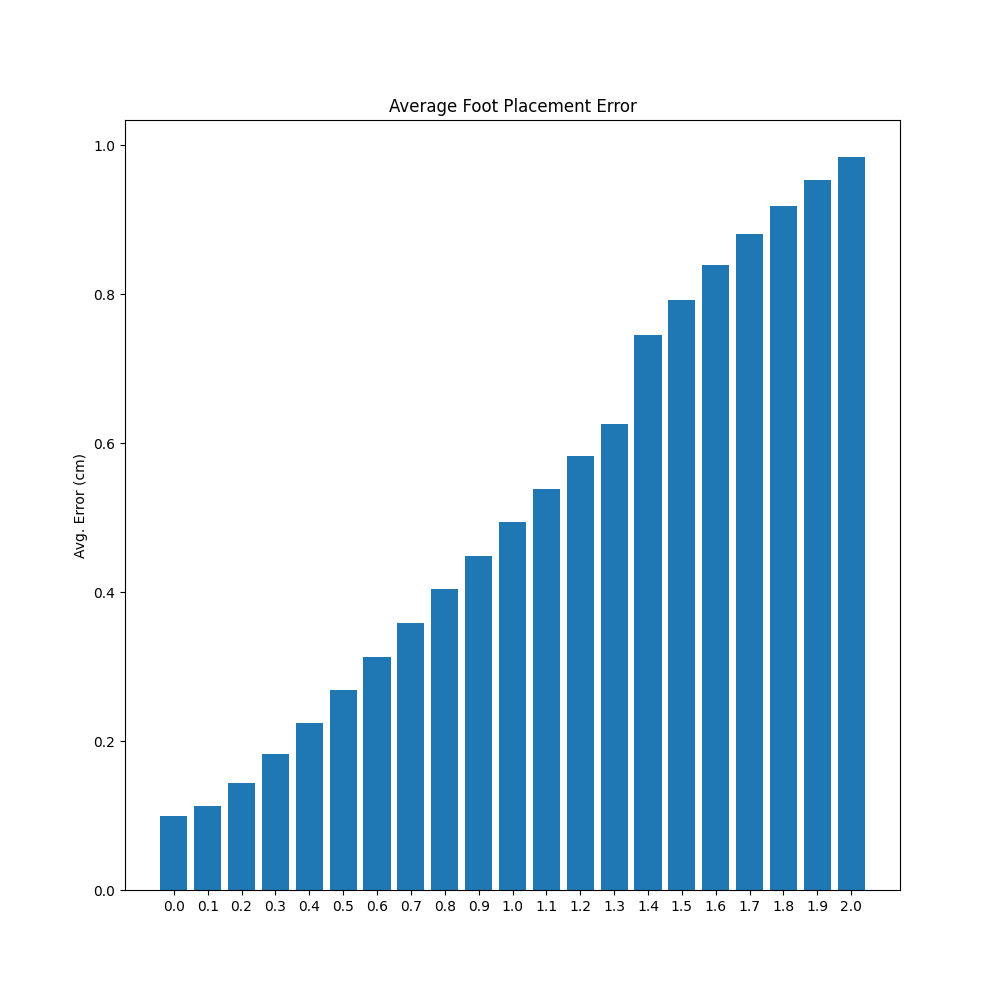
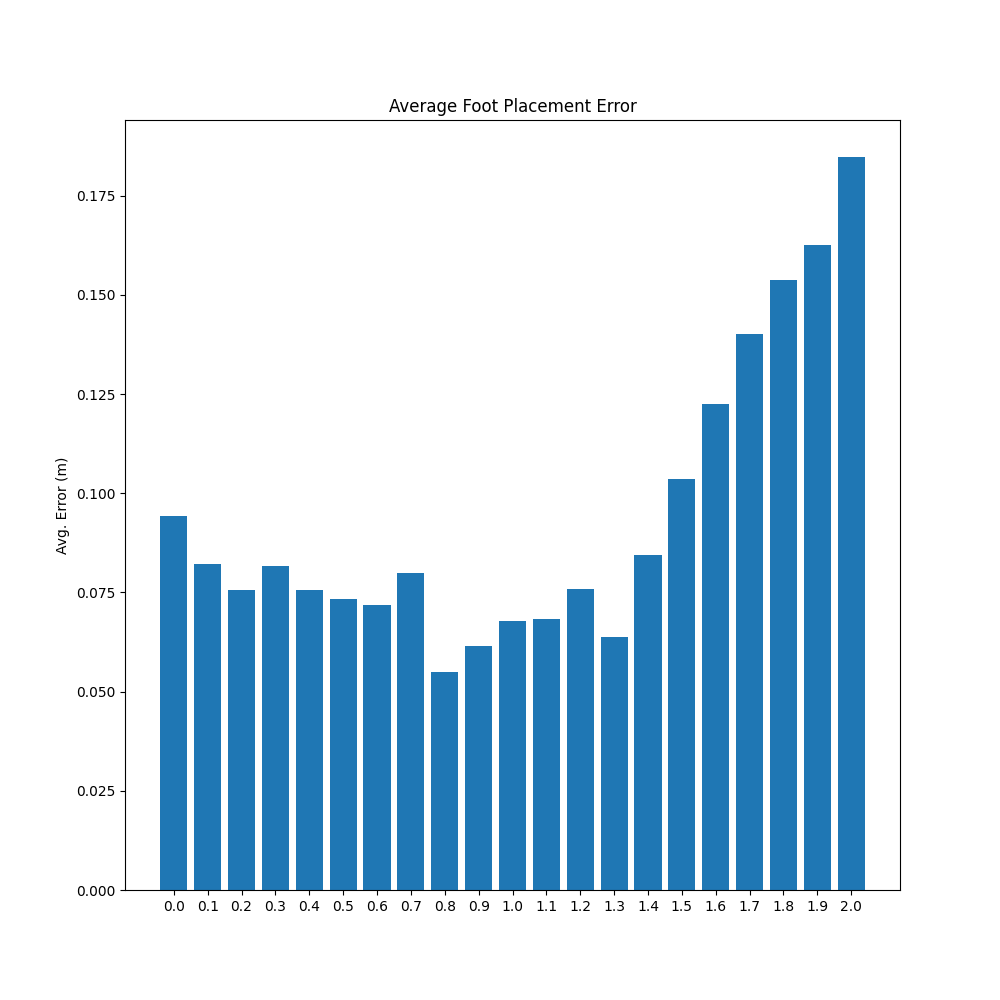
fixed foot placement error test, removed frequency adjustment from training in cassie.py env

diff --git a/tools/aslip_tests/foot_placement.py b/tools/aslip_tests/foot_placement.py
@@ -45,10 +45,10 @@ def set_axes_equal(ax):
     ax.set_ylim3d([y_middle - plot_radius, y_middle + plot_radius])
     ax.set_zlim3d([z_middle - plot_radius, z_middle + plot_radius])
 
-def eval_policy(policy, args, run_args, testing_speed):
+def eval_policy(policy, args, run_args, testing_speed, num_steps=10):
 
     max_traj_len = args.traj_len
-    visualize = not args.no_viz
+    visualize = not args.no_vis
     # run_args.dyn_random = True
 
     env = CassieEnv(traj="aslip", state_est=run_args.state_est, no_delta=run_args.no_delta, learn_gains=run_args.learn_gains, ik_baseline=run_args.ik_baseline, dynamics_randomization=run_args.dyn_random, clock_based=run_args.clock_based, reward="aslip_old", history=run_args.history)
@@ -84,7 +84,10 @@ def eval_policy(policy, args, run_args, testing_speed):
     env.update_speed(testing_speed)
     print(env.speed)
 
-    while footstep_count-1 < 15:
+    ## Get the fixed delta for each footstep position change
+    right_delta = get_ref_aslip_global_state_no_drift_correct(env, phase=7)
+
+    while footstep_count-1 < num_steps:
     
         if hasattr(env, 'simrate'):
             start = time.time()
@@ -122,60 +125,53 @@ def eval_policy(policy, args, run_args, testing_speed):
 
         state, reward, done, _ = env.step(action)
 
+        # get the delta for right and left by looking at phases where both feet are in stance
+        right_to_left = get_ref_aslip_global_state_no_drift_correct(env, phase=16)[2][:2] - get_ref_aslip_global_state_no_drift_correct(env, phase=16)[0][:2]
+        left_to_right = get_ref_aslip_global_state_no_drift_correct(env, phase=29)[0][:2] - get_ref_aslip_global_state_no_drift_correct(env, phase=29)[2][:2]
+        delta = right_to_left + left_to_right
+        # print(right_to_left)
+        # print(left_to_right)
+        # print(delta)
+        # print(get_ref_aslip_global_state_no_drift_correct(env, phase=16)[2][:2])
+        # print(get_ref_aslip_global_state_no_drift_correct(env, phase=16)[2][:2] + delta)
+        # exit()
+
         # print("{} : {} : {}".format(env.phase, env.l_foot_pos[2], env.r_foot_pos[2]))
         # allow some ramp up time
-        while timesteps > env.phaselen * 2:
-
+        if timesteps > env.phaselen * 2:
             # fill r_last_ideal_pos and l_last_ideal_pos with values before collecting data
-                        
+
             # check if we are in left swing phase
             # left foot swing, right foot stance
             if env.phase == 7:
                 left_swing = True
                 right_swing = False
-                r_ideal_land_pos = env.r_foot_pos[:2] + get_ref_aslip_global_state_no_drift_correct(env, phase=7)[2][:2]
-                r_foot_poses_ideal.append(r_ideal_land_pos)
+                r_actual_land_pos = env.r_foot_pos[:2]
+                # if we have data from last step, we can calculate error from where right foot landed to where it should have landed, BEFORE updating r_ideal_land_pos
+                if footstep_count >= 1:
+                    r_foot_poses_actual.append(r_actual_land_pos)
+                    footplace_err.append(np.linalg.norm(r_ideal_land_pos - r_actual_land_pos))
+                    # print("right landed at\t\t\t{}".format(r_actual_land_pos))
+                l_ideal_land_pos = r_actual_land_pos + right_to_left
+                l_foot_poses_ideal.append(l_ideal_land_pos)
+                # print("next, left should land at\t{}\t{}\n".format(l_ideal_land_pos, r_actual_land_pos))
                 # print("left-swing : right should land at {}".format(r_ideal_land_pos))
             # left foot stance, right foot swing
             elif env.phase == 23:
                 left_swing = False
                 right_swing = True
-                l_ideal_land_pos = env.l_foot_pos[:2] + get_ref_aslip_global_state_no_drift_correct(env, phase=23)[0][:2]
-                l_foot_poses_ideal.append(l_ideal_land_pos)
-                # print("right-swing : left should land at {}".format(l_ideal_land_pos))
-                footstep_count += 1
-            else:
-                break
-
-            # if left foot is down (right swinging) calculate error between it and ideal position, calculate next ideal position.
-            # if right foot is down (left swinging) "---------------------------------------------------------------------------"
-            if footstep_count >= 1:
-
-                if l_ideal_land_pos is not None and left_swing == False:
-                    l_actual_land_pos = env.l_foot_pos[:2]
-                    l_foot_poses_actual.append(l_ideal_land_pos)
+                l_actual_land_pos = env.l_foot_pos[:2]
+                # if we have data from last step, we can calculate error from where right foot landed to where it should have landed, BEFORE updating r_ideal_land_pos
+                if footstep_count >= 1:
+                    l_foot_poses_actual.append(l_actual_land_pos)
                     footplace_err.append(np.linalg.norm(l_ideal_land_pos - l_actual_land_pos))
-                    # print("left landed at {}".format(l_actual_land_pos))
-                elif r_ideal_land_pos is not None and right_swing == False:
-                    r_actual_land_pos = env.r_foot_pos[:2]
-                    r_foot_poses_actual.append(r_ideal_land_pos)
-                    footplace_err.append(np.linalg.norm(r_ideal_land_pos - r_actual_land_pos))
-                    # print("right landed at {}".format(r_actual_land_pos))
-            
-            break
+                    # print("left landed at\t\t\t{}".format(l_actual_land_pos))
+                r_ideal_land_pos = l_actual_land_pos + left_to_right
+                r_foot_poses_ideal.append(r_ideal_land_pos)
+                # print("next, right should land at\t{}\t{}\n".format(r_ideal_land_pos, l_actual_land_pos))
+                footstep_count += 1
+                # print("right-swing : left should land at {}".format(l_ideal_land_pos))
 
-        # if a[1][2] == 0.0:
-        #     l_footstep.append(np.linalg.norm(a[1] - d[1]))
-        # elif a[2][2] == 0.0:
-        #     r_footstep.append(np.linalg.norm(a[2] - d[2]))
-
-        # if traj_info[]
-
-        # if env.lfoot_vel[2] < -0.6:
-        #     print("left foot z vel over 0.6: ", env.lfoot_vel[2])
-        # if env.rfoot_vel[2] < -0.6:
-        #     print("right foot z vel over 0.6: ", env.rfoot_vel[2])
-        
         eval_reward += reward
         timesteps += 1
         qvel = env.sim.qvel()
@@ -188,9 +184,14 @@ def eval_policy(policy, args, run_args, testing_speed):
         #     # assume 40hz
         #     end = time.time()
         #     delaytime = max(0, 1000 / 40000 - (end-start))
-        #     time.sleep(delaytime)
+        #     time.sleep(delaytime)   
 
-    print("Eval reward: ", eval_reward)
+    print("Avg Foot Placement Error: ", np.mean(footplace_err))
+    print("Num pairs: ", len(footplace_err))
+
+    # trim the ideal footplace poses
+    l_foot_poses_ideal = l_foot_poses_ideal[1:]
+    r_foot_poses_ideal = r_foot_poses_ideal[:-1]
 
     l_foot_poses_ideal = np.array(l_foot_poses_ideal)
     r_foot_poses_ideal = np.array(r_foot_poses_ideal)
@@ -201,11 +202,14 @@ def eval_policy(policy, args, run_args, testing_speed):
     fig = plt.figure(figsize=(10,10))
     ax = fig.add_subplot(111)
 
-    ax.scatter(l_foot_poses_ideal[:, 0], l_foot_poses_ideal[:, 1], c='tab:green')
-    ax.scatter(r_foot_poses_ideal[:, 0], r_foot_poses_ideal[:, 1], c='tab:green')
-    ax.scatter(l_foot_poses_actual[:, 0], l_foot_poses_actual[:, 1], c='tab:red')
-    ax.scatter(r_foot_poses_actual[:, 0], r_foot_poses_actual[:, 1], c='tab:red')
+    ax.scatter(l_foot_poses_ideal[:, 0], l_foot_poses_ideal[:, 1], c='tab:green', label='desired', alpha=0.5)
+    ax.scatter(r_foot_poses_ideal[:, 0], r_foot_poses_ideal[:, 1], c='tab:green', alpha=0.5)
+    ax.scatter(l_foot_poses_actual[:, 0], l_foot_poses_actual[:, 1], c='tab:red', label='actual', alpha=0.5)
+    ax.scatter(r_foot_poses_actual[:, 0], r_foot_poses_actual[:, 1], c='tab:red', alpha=0.5)
     ax.axis('equal')
+    ax.set_ylabel('y (m)')
+    ax.set_xlabel('x (m)')
+    ax.set_title('Desired vs Actual Foot Placements ({} m/s)'.format(testing_speed))
     plt.savefig('./plots/footplace{}.png'.format(testing_speed))
     # plt.show()
 
@@ -215,8 +219,9 @@ def eval_policy(policy, args, run_args, testing_speed):
 parser = argparse.ArgumentParser()
 parser.add_argument("--path", type=str, default="../../trained_models/ppo/Cassie-v0/IK_traj-aslip_aslip_old_2048_12288_seed-10/", help="path to folder containing policy and run details")
 parser.add_argument("--traj_len", default=400, type=str)
+parser.add_argument("--num_steps", default=10, type=str)
 parser.add_argument("--debug", default=False, action='store_true')
-parser.add_argument("--no_viz", default=False, action='store_true')
+parser.add_argument("--no_vis", default=False, action='store_true')
 parser.add_argument("--eval", default=True, action="store_false", help="Whether to call policy.eval() or not")
 
 args = parser.parse_args()
@@ -232,7 +237,7 @@ data = []
 speeds = [i/10 for i in range(0,21)] # 0.0 to 2.0 m/s
 # speeds = [i/10 for i in range(3, 4)] # 0.0 to 2.0 m/s
 for speed in speeds:
-    data.append(eval_policy(policy, args, run_args, speed))
+    data.append(eval_policy(policy, args, run_args, speed, num_steps=args.num_steps))
 data = np.array(data)
 
 # Foot Placement tracking error
@@ -243,7 +248,7 @@ for i in range(data.shape[0]):
     error = np.mean(data[i])
     ax.bar(i, error, color="tab:blue")
 ax.set_title('Average Foot Placement Error')
-ax.set_ylabel('Avg. Error (cm)')
+ax.set_ylabel('Avg. Error (m)')
 ax.set_xticks(np.arange(len(speeds)))
 ax.set_xticklabels([str(speed) for speed in speeds])
 plt.savefig("./plots/footpos_err.png")

diff --git a/cassie/cassie.py b/cassie/cassie.py
@@ -23,8 +23,8 @@ class CassieEnv_v2:
         dirname = os.path.dirname(__file__)
         #xml_path = os.path.join(dirname, "cassiemujoco", "cassie.xml")
         #self.sim = CassieSim(xml_path)
-        # self.sim = CassieSim("./cassie/cassiemujoco/cassie.xml")
-        self.sim = CassieSim("./cassie/cassiemujoco/cassie_drop_step.xml")
+        self.sim = CassieSim("./cassie/cassiemujoco/cassie.xml")
+        # self.sim = CassieSim("./cassie/cassiemujoco/cassie_drop_step.xml")
         self.vis = None
 
         # Arguments for the simulation and state space
@@ -423,12 +423,12 @@ class CassieEnv_v2:
             self.trajectory = self.trajectories[random_speed_idx] # switch the current trajectory
             self.phaselen = self.trajectory.length - 1
         else:
-            self.speed = (random.randint(-3, 40)) / 10
-            # Make sure that if speed is above 2, freq is at least 1.2
-            if self.speed > 1.3:# or np.any(self.speed_schedule > 1.6):
-                self.phase_add = 1.3 + 0.7*random.random()
-            else:
-                self.phase_add = 1 + random.random()
+            self.speed = (random.randint(0, 20)) / 10
+            # # Make sure that if speed is above 2, freq is at least 1.2
+            # if self.speed > 1.3:# or np.any(self.speed_schedule > 1.6):
+            #     self.phase_add = 1.3 + 0.7*random.random()
+            # else:
+            #     self.phase_add = 1 + random.random()
 
         if self.fixed_speed != None:
             self.speed = self.fixed_speed
@@ -575,11 +575,9 @@ class CassieEnv_v2:
         else:
             self.speed = new_speed
         
-            # Make sure that if speed is above 2, freq is at least 1.2
-            if self.speed > 1.3:# or np.any(self.speed_schedule > 1.6):
-                self.phase_add = 1.3 + 0.7*random.random()
-            else:
-                self.phase_add = 1 + random.random()
+            # # Make sure that if speed is above 2, freq is at least 1.2
+            # if self.speed > 1.3:# or np.any(self.speed_schedule > 1.6):
+            #     self.phase_add = 1.1 + (self.speed - 1)* 0.2
 
 
     def compute_reward(self, action):

diff --git a/5k_test.py b/5k_test.py
@@ -68,7 +68,7 @@ parser = argparse.ArgumentParser()
 # General args
 parser.add_argument("--path", type=str, default="./trained_models/nodelta_neutral_StateEst_symmetry_speed0-3_freq1-2", help="path to folder containing policy and run details")
 parser.add_argument("--n_procs", type=int, default=4, help="Number of procs to use for multi-processing")
-parser.add_argument("--lite", dest='full', default=False, action="store_true", help="run the lite test instead of full test")
+parser.add_argument("--lite", dest='full', default=True, action="store_false", help="run the lite test instead of full test")
 parser.add_argument("--eval", default=True, action="store_false", help="Whether to call policy.eval() or not")
 parser.add_argument("--vis", default=False, action="store_true", help="Whether to visualize test or not")
 
@@ -76,7 +76,11 @@ args = parser.parse_args()
 run_args = pickle.load(open(os.path.join(args.path, "experiment.pkl"), "rb"))
 # Make mirror False so that env_factory returns a regular wrap env function and not a symmetric env function that can be called to return
 # a cassie environment (symmetric env cannot be called to make another env)
-env_fn = env_factory(run_args.env_name, traj=run_args.traj, simrate=run_args.simrate, state_est=run_args.state_est, no_delta=run_args.no_delta, dynamics_randomization=run_args.dyn_random, 
+if hasattr(run_args, 'simrate'):
+    env_fn = env_factory(run_args.env_name, traj=run_args.traj, simrate=run_args.simrate, state_est=run_args.state_est, no_delta=run_args.no_delta, dynamics_randomization=run_args.dyn_random, 
+                    mirror=False, clock_based=run_args.clock_based, reward=run_args.reward, history=run_args.history)
+else:
+    env_fn = env_factory(run_args.env_name, traj=run_args.traj, state_est=run_args.state_est, no_delta=run_args.no_delta, dynamics_randomization=run_args.dyn_random, 
                     mirror=False, clock_based=run_args.clock_based, reward=run_args.reward, history=run_args.history)
 cassie_env = env_fn()
 policy = torch.load(os.path.join(args.path, "actor.pt"))

diff --git a/cassie/cassiemujoco/cassiemujoco.py b/cassie/cassiemujoco/cassiemujoco.py
@@ -21,8 +21,8 @@ import numpy as np
 _dir_path = os.path.dirname(os.path.realpath(__file__))
 
 # Initialize libcassiesim
-# cassie_mujoco_init(str.encode(_dir_path+"/cassie.xml"))
-cassie_mujoco_init(str.encode(_dir_path+"/cassie_drop_step.xml"))
+cassie_mujoco_init(str.encode(_dir_path+"/cassie.xml"))
+# cassie_mujoco_init(str.encode(_dir_path+"/cassie_drop_step.xml"))
 # cassie_mujoco_init(str.encode("../model/cassie.xml"))
 
 
